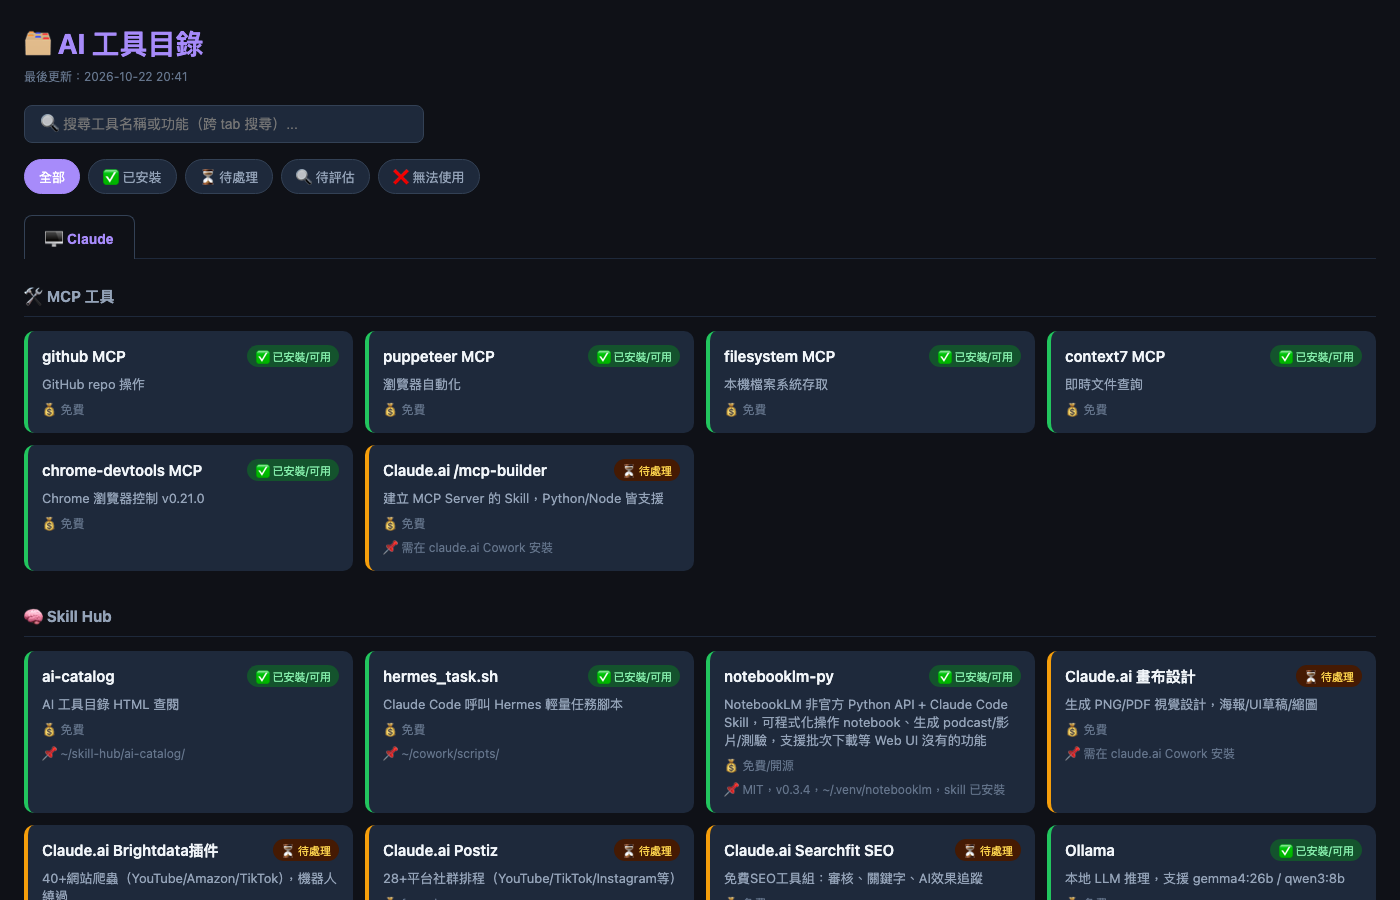
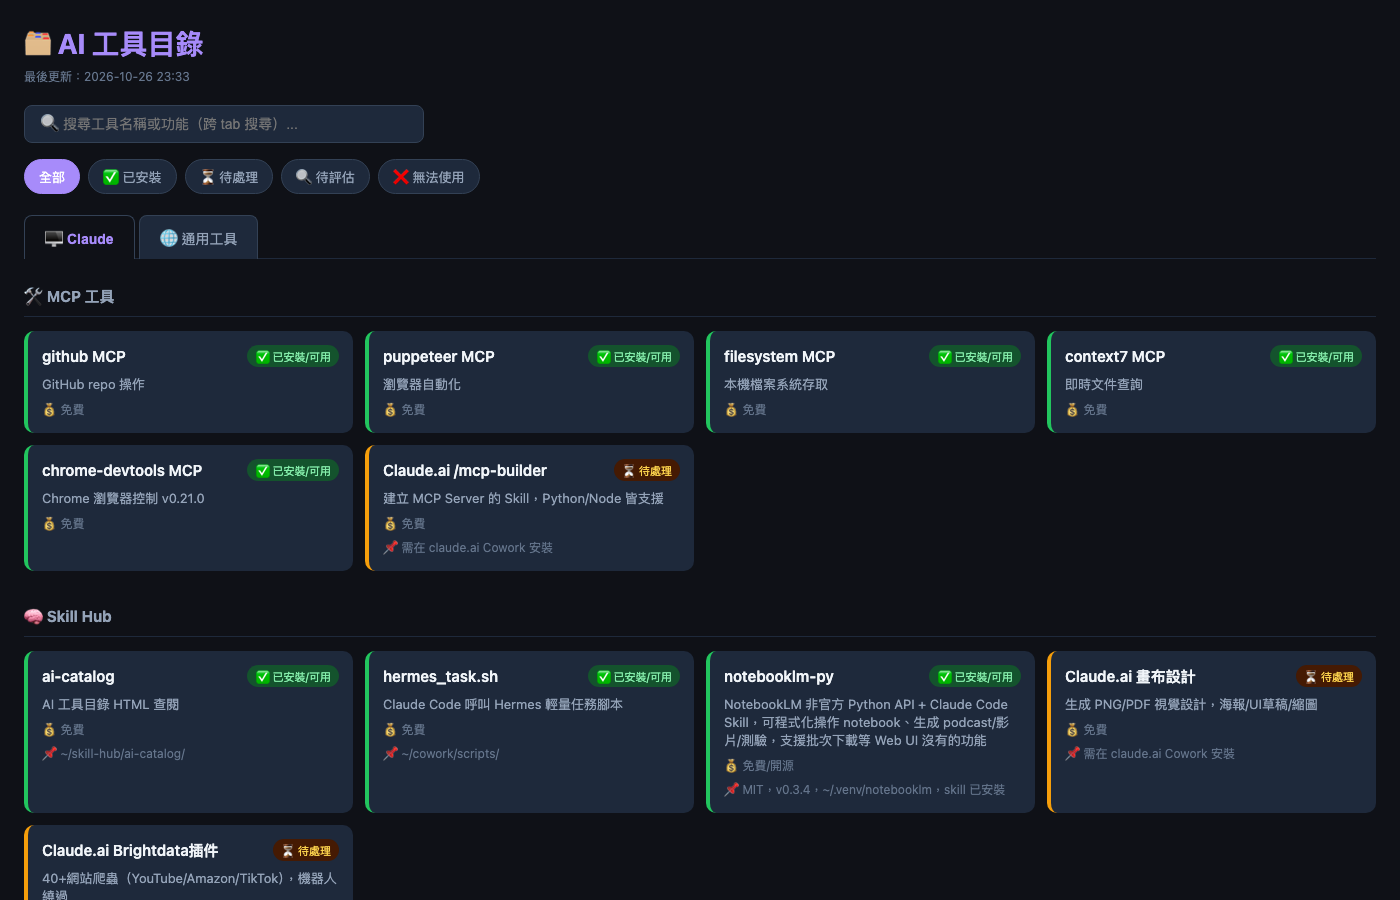
auto: update catalog [2026-10-26 23:33]

Changed region(s): [[0.2457, 0.9022, 0.9829, 1.0], [0.0921, 0.2178, 0.1843, 0.3111]]

diff --git a/ai-tools-catalog.md b/ai-tools-catalog.md
@@ -23,31 +23,46 @@
 | **hermes_task.sh** | ✅ 已安裝 | Claude Code 呼叫 Hermes 輕量任務腳本 | 免費 | ~/cowork/scripts/ |
 | **notebooklm-py** | ✅ 已安裝 | NotebookLM 非官方 Python API + Claude Code Skill，可程式化操作 notebook、生成 podcast/影片/測驗，支援批次下載等 Web UI 沒有的功能 | 免費/開源 | MIT，v0.3.4，~/.venv/notebooklm，skill 已安裝 |
 | **Claude.ai 畫布設計** | ⏳ 待處理 | 生成 PNG/PDF 視覺設計，海報/UI草稿/縮圖 | 免費 | 需在 claude.ai Cowork 安裝 |
-| **Claude.ai Brightdata插件** | ⏳ 待處理 | 40+網站爬蟲（YouTube/Amazon/TikTok），機器人繞過 | freemium | 大量爬蟲需付費 |## 🌐 通用工具
+| **Claude.ai Brightdata插件** | ⏳ 待處理 | 40+網站爬蟲（YouTube/Amazon/TikTok），機器人繞過 | freemium | 大量爬蟲需付費 |
+
+## 🌐 通用工具
 | **Claude.ai Postiz** | ⏳ 待處理 | 28+平台社群排程（YouTube/TikTok/Instagram等） | freemium | 需各平台 API Key |
-| **Claude.ai Searchfit SEO** | ⏳ 待處理 | 免費SEO工具組：審核、關鍵字、AI效果追蹤 | 免費 | 適合 YouTube SEO 使用 |### 💻 本地推理
+| **Claude.ai Searchfit SEO** | ⏳ 待處理 | 免費SEO工具組：審核、關鍵字、AI效果追蹤 | 免費 | 適合 YouTube SEO 使用 |
+
+### 💻 本地推理
 
 | 工具 | 狀態 | 特色 | 費用 | 備註 |
 |------|------|------|------|------|
 | **Ollama** | ✅ 已安裝 | 本地 LLM 推理，支援 gemma4:26b / qwen3:8b | 免費 | localhost:11434，OpenAI-compatible |
 | **Rapid-MLX** | ✅ 已安裝 | Apple Silicon 本地 LLM 推理，基於 MLX 框架，OpenAI-compatible API，比 Ollama 快 2-4x | 免費/開源 | v0.6.11，brew 安裝，qwen3.5-4b 已下載（168 tok/s），port 11435 |
 | **skilless.ai** | ✅ 已安裝 | 給 Claude Code 加上網頁搜尋、yt-dlp 字幕提取、RSS 解析能力 | 免費 | 一行安裝，已連結 ~/.claude/skills/ |
-| **notebooklm-py** | ✅ 已安裝 | 程式化操作 NotebookLM（list/ask/source add），讓 Claude 直接讀 James 的 YouTube 分析筆記本 | 免費 | 非官方 API；2026-10-02 登入過期需重登；帳號待 James 確認（chenyuchi09 需明確授權） |### 🎬 影片生成
+| **notebooklm-py** | ✅ 已安裝 | 程式化操作 NotebookLM（list/ask/source add），讓 Claude 直接讀 James 的 YouTube 分析筆記本 | 免費 | 非官方 API；2026-10-02 登入過期需重登；帳號待 James 確認（chenyuchi09 需明確授權） |
+
+### 🎬 影片生成
 
 | 工具 | 狀態 | 特色 | 費用 | 備註 |
-| **CapCut 剪映 Pro** | 🔍 待評估 | 一站式 AI 影片:AI配音、數位人avatar、字幕、剪輯、去背、縮圖;中文原生字節跳動;Web版可免費試做 | NT290月 或 NT2490年;Web免費可試 | 風管YouTube主力候選;先免費試做驗證中文專有名詞發音 ||------|------|------|------|------|
+|------|------|------|------|------|
+| **CapCut 剪映 Pro** | 🔍 待評估 | 一站式 AI 影片:AI配音、數位人avatar、字幕、剪輯、去背、縮圖;中文原生字節跳動;Web版可免費試做 | NT290月 或 NT2490年;Web免費可試 | 風管YouTube主力候選;先免費試做驗證中文專有名詞發音 |
 | **HeyGen** | 🔍 待評估 | 高擬真AI主播Avatar IV;175語言對嘴;有API可全自動化;約30分鐘月 | US29月 年繳US24 | 風管YouTube升級選項;有API我可串接自動產片 |
-| **Kling 3.0** | 🔍 待評估 | 圖或文字生角色;Subject Binding 跨鏡角色一致性最強5分;單段最長15秒;無中文配音需配HeyGen | 免費66credits日;Standard US6.99月年繳 | AI短劇方案A核心影片生成;台灣信用卡可付 |### 🖼 圖像生成
+| **Kling 3.0** | 🔍 待評估 | 圖或文字生角色;Subject Binding 跨鏡角色一致性最強5分;單段最長15秒;無中文配音需配HeyGen | 免費66credits日;Standard US6.99月年繳 | AI短劇方案A核心影片生成;台灣信用卡可付 |
+
+### 🖼 圖像生成
 
 | 工具 | 狀態 | 特色 | 費用 | 備註 |
-| **Domo AI** | 🔍 待評估 | 上傳角色圖轉動畫Character-to-Video;動漫風格最佳;無中文配音無腳本流;真人感較弱 | Basic US6.99月年繳500credits | James指定納入;動漫短劇適用真人較弱 ||------|------|------|------|------|
+|------|------|------|------|------|
+| **Domo AI** | 🔍 待評估 | 上傳角色圖轉動畫Character-to-Video;動漫風格最佳;無中文配音無腳本流;真人感較弱 | Basic US6.99月年繳500credits | James指定納入;動漫短劇適用真人較弱 |
 | **Vidu** | 🔍 待評估 | 多參考圖最多7張角色一致;Reference-to-Video;每段5-8秒;有API | 免費800credits月離峰無限;Standard US10月 | AI短劇方案B角色一致補充;Stripe付款 |
-| **LTX Studio** | 🔍 待評估 | 最完整腳本到分鏡到影片流程;Elements角色場景庫跨鏡一致;個人無API | 免費800credits一次;Standard US28月年繳 | AI短劇方案B一站式腳本流 |### 📓 知識整理
+| **LTX Studio** | 🔍 待評估 | 最完整腳本到分鏡到影片流程;Elements角色場景庫跨鏡一致;個人無API | 免費800credits一次;Standard US28月年繳 | AI短劇方案B一站式腳本流 |
+
+### 📓 知識整理
 
 | 工具 | 狀態 | 特色 | 費用 | 備註 |
-| **markitdown** | ✅ 已安裝 | 微軟開源，把PDF/Office/影像/音訊/YouTube/網址等轉成Markdown供LLM讀取 | 免費開源MIT；選用Azure/LLM圖片描述功能才計費 | venv裝於~/cowork/tools/markitdown-venv，alias mid；YouTube抓現成字幕不跑whisper ||------|------|------|------|------|
+|------|------|------|------|------|
+| **markitdown** | ✅ 已安裝 | 微軟開源，把PDF/Office/影像/音訊/YouTube/網址等轉成Markdown供LLM讀取 | 免費開源MIT；選用Azure/LLM圖片描述功能才計費 | venv裝於~/cowork/tools/markitdown-venv，alias mid；YouTube抓現成字幕不跑whisper |
 | **Claude Duet** | 🔍 待評估 | Anthropic 職場型 AI 代理人預覽版（官方產品，非 skill）：每日摘要、追蹤已連結 App、建儀表板、排會議、財務預測；主動提醒、離線續跑、行動前先確認 | Pro/Max 訂閱內（候補名單） | 2026-10-21 發布，獨立 App＋網站；競品 Meta Muse、OpenAI Dots；來源鉅亨 6635482 |
-| **NVIDIA USD BRep（SMLib）** | 🔍 待評估 | NVIDIA 開源的工業級 CAD 實體幾何核心（B-Rep/NURBS、布林運算、掃掠、質量計算，C++/Python，可匯出 STEP/OpenUSD），讓 AI 用程式碼直接建精確實體 | 免費（Apache 2.0） | CAD轉3D 參考；10/22 James 傳 FB 彭致華影片（鋼構 3 張圖→74 構件→穿梁孔檢核→35.4 噸） |---
+| **NVIDIA USD BRep（SMLib）** | 🔍 待評估 | NVIDIA 開源的工業級 CAD 實體幾何核心（B-Rep/NURBS、布林運算、掃掠、質量計算，C++/Python，可匯出 STEP/OpenUSD），讓 AI 用程式碼直接建精確實體 | 免費（Apache 2.0） | CAD轉3D 參考；10/22 James 傳 FB 彭致華影片（鋼構 3 張圖→74 構件→穿梁孔檢核→35.4 噸） |
+
+---
 
 ## 狀態說明
 - ✅ 已安裝/可用
